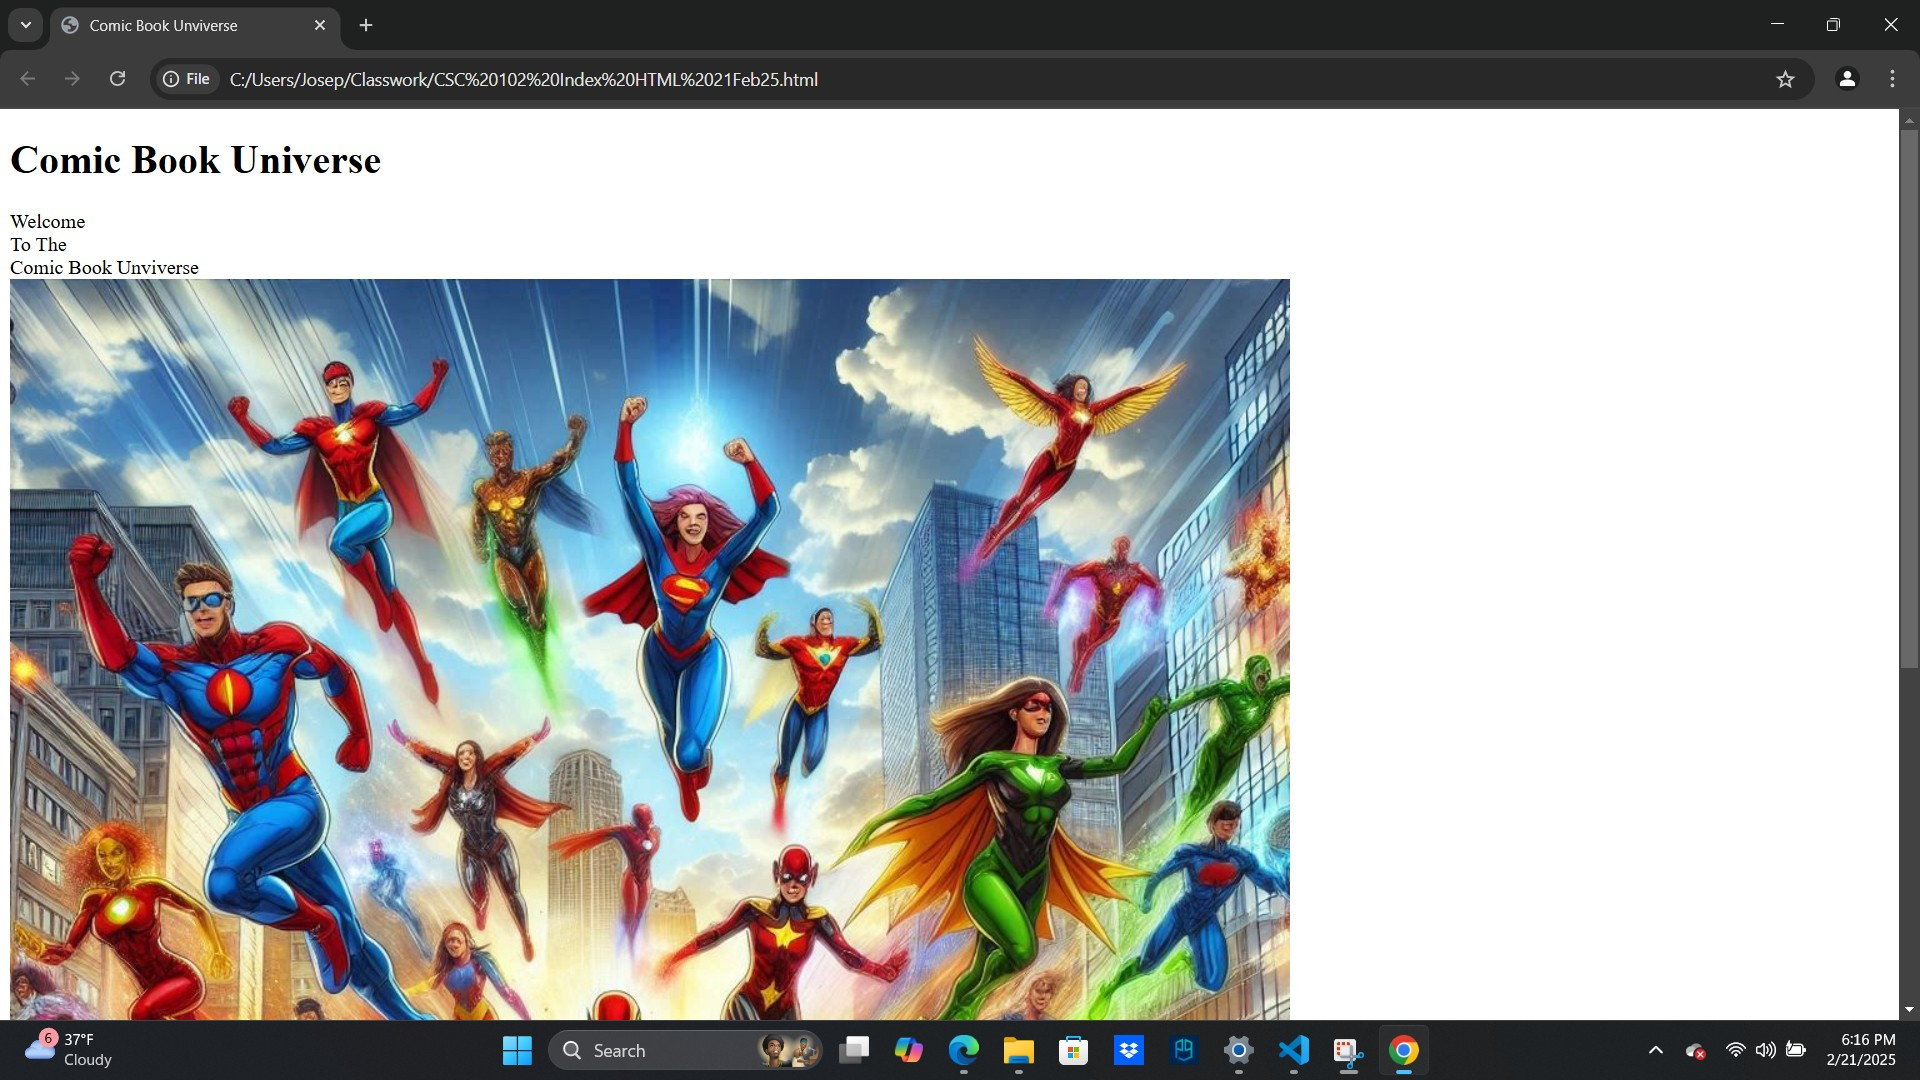
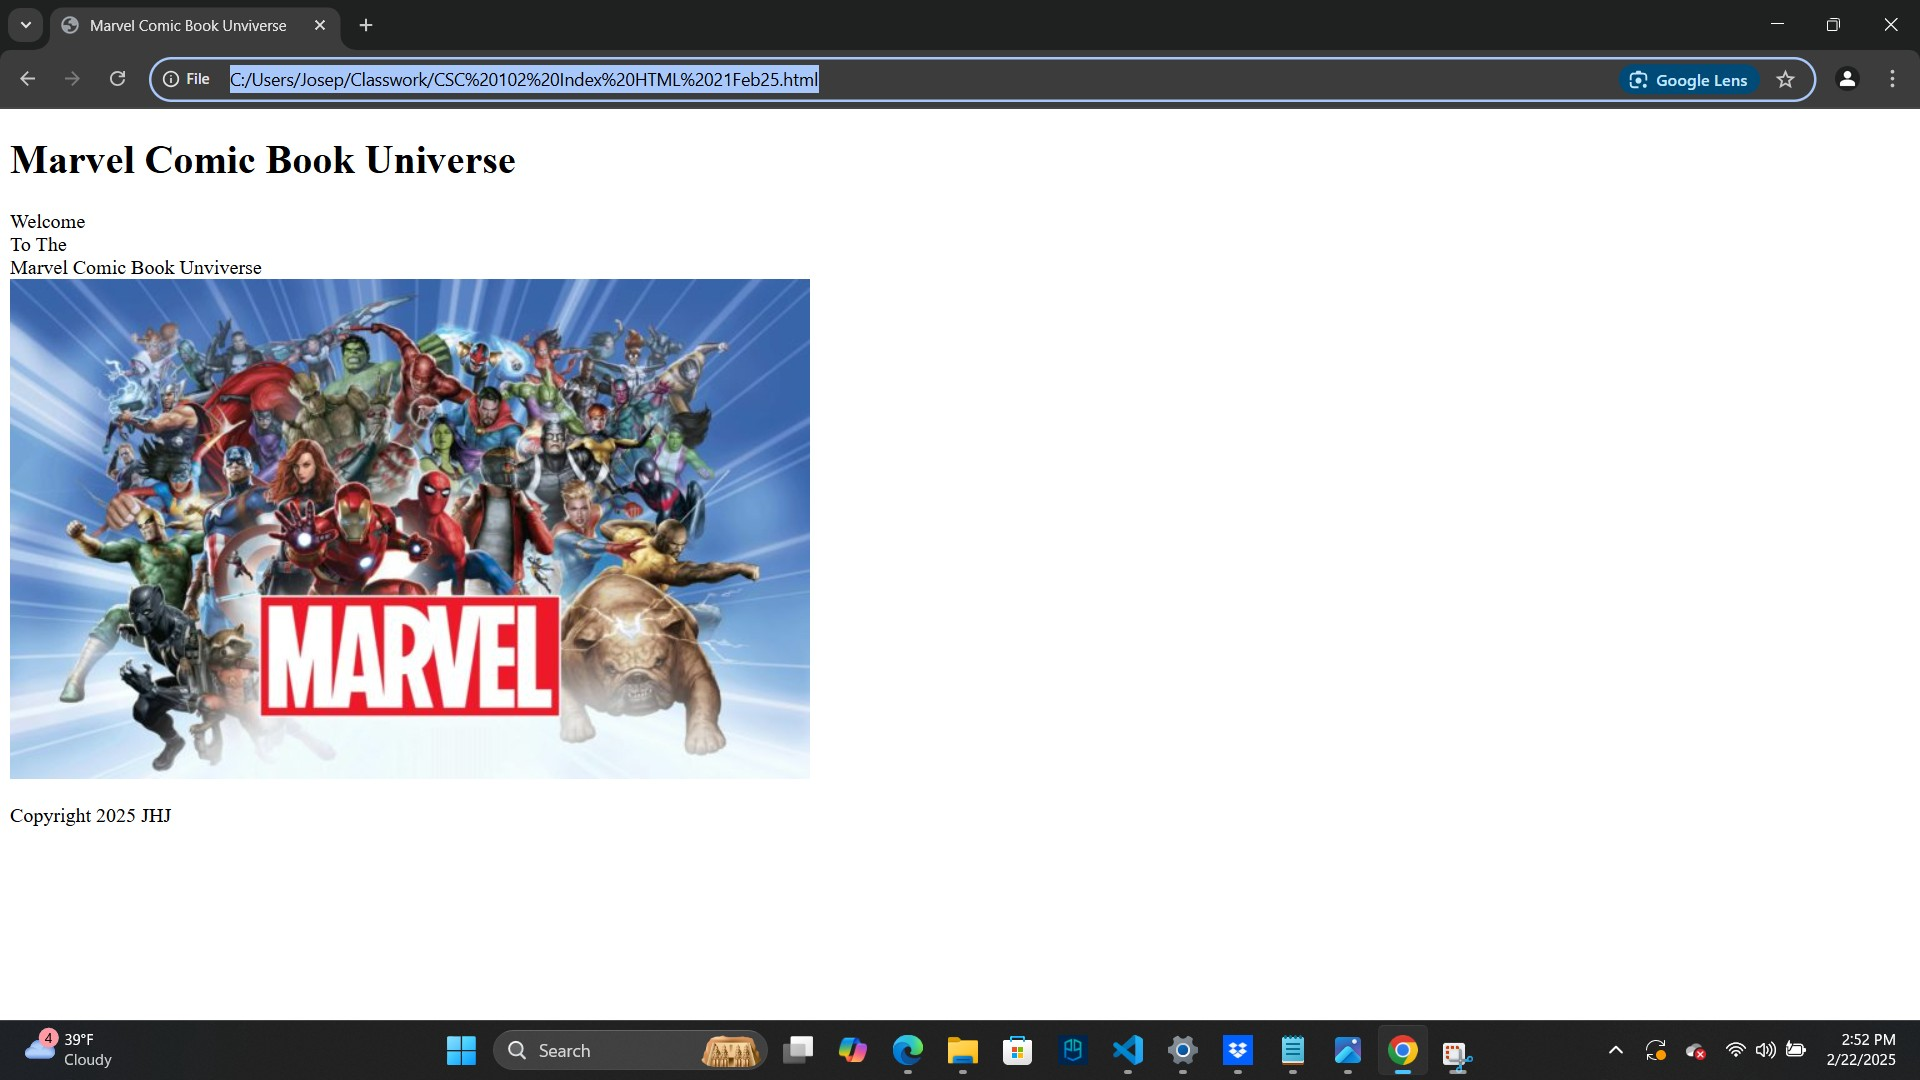
Add files via upload

diff --git a/CSC 102 Board HTML 21Feb25.html b/CSC 102 Board HTML 21Feb25.html
@@ -5,37 +5,41 @@
     <meta name="viewport" content="width=device-width, initial-scale=1.0">
     <title>CSC102:Boards html 21Feb25</title>
 </head>
-<!-- This is an HTML comment -->
+<!--Written By Joseph Hudson Jr-->
+<!-- This is my header. I used h1 as to make it larger than the rest of the wording -->
 <header><h1>My Major At UAT</h1></header>
 <body>
-    <!-- This is an HTML comment -->
+    <!-- This the start of my first paragraph -->
  <p>
 
     ARTIFICIAL INTELLIGENCE 
-    <!-- This is an HTML comment -->
+    <!-- I used a break here to separate my Major from it's objectives -->
     <br>
     ARTIFICIAL INTELLIGENCE DEGREE OBJECTIVES
-    <!-- This is an HTML comment -->
+    <!-- This   -->
     <ol>
-        <!-- This is an HTML comment -->
+        <!-- I didn't know if I should copy and paste each one -->
         <li>Create and integrate cognitive artificial intelligence into applications.</li>
-        <!-- This is an HTML comment -->
+        <!-- So I copied and pasted  -->
         <li>Create and evolve natural language processing systems.</li>
-        <!-- This is an HTML comment -->
+        <!-- Each individual line -->
         <li>Demonstrate proficiency in designing and developing machine learning systems using industry approaches and patterns.</li>
-        <!-- This is an HTML comment -->
+        <!-- I will try to just copy and paste the whole -->
         <li>Design and employ deep learning systems using best practices and conventions.</li>
-        <!-- This is an HTML comment -->
+        <!-- Thing next time I try this or -->
         <li>Demonstrate a deep understanding of neural networks and their role in creating intelligent systems.</li>
-        <!-- This is an HTML comment -->
+        <!-- when I go over this in my spare time, but I wanted to get it in and corrected -->
         <li>Design, create, or integrate reinforcement learning, large language models, and genetic algorithms in intelligent software.</li>
     </ol>
 
  </p>  
- <!-- This is an HTML comment --> 
+ <!-- I thought I would try this out --> 
  <nav>
-    <!-- This is an HTML comment -->
+    <!-- Trying to give extra resources -->
     <a href = "https://www.uat.edu/media/UAT_Catalog_2025_v_2_1.pdf">Click for learn About Other Majors </a>
 </nav>
 </body>
+<footer>
+    <p> Copyright 2025 JHJR </p>
+    </footer>
 </html>

diff --git a/CSC 102 Index HTML 21Feb25.html b/CSC 102 Index HTML 21Feb25.html
@@ -3,21 +3,25 @@
 <head>
     <meta charset="UTF-8">
     <meta name="viewport" content="width=device-width, initial-scale=1.0">
-    <title>Comic Book Unviverse</title>
+    <title>Marvel Comic Book Unviverse</title>
 </head>
-<header><h1>Comic Book Universe</h1></header>
+<!--Written By Joseph Hudson Jr-->
+<header><h1>Marvel Comic Book Universe</h1></header>
 <body>
  <p>
     
-Welcome
+     Welcome
 <br>
-To The
+     To The
 <br>
-Comic Book Unviverse
+Marvel Comic Book Unviverse
 <br>
-<img id="memeImage" 
-src="Comic Book Universe.jpeg"
+<img id="Marvel" 
+src="Marvel.jpg"
 
- </p>   
+</p>   
 </body>
+<footer>
+    <p> Copyright 2025 JHJ </p>
+    </footer>
 </html>
